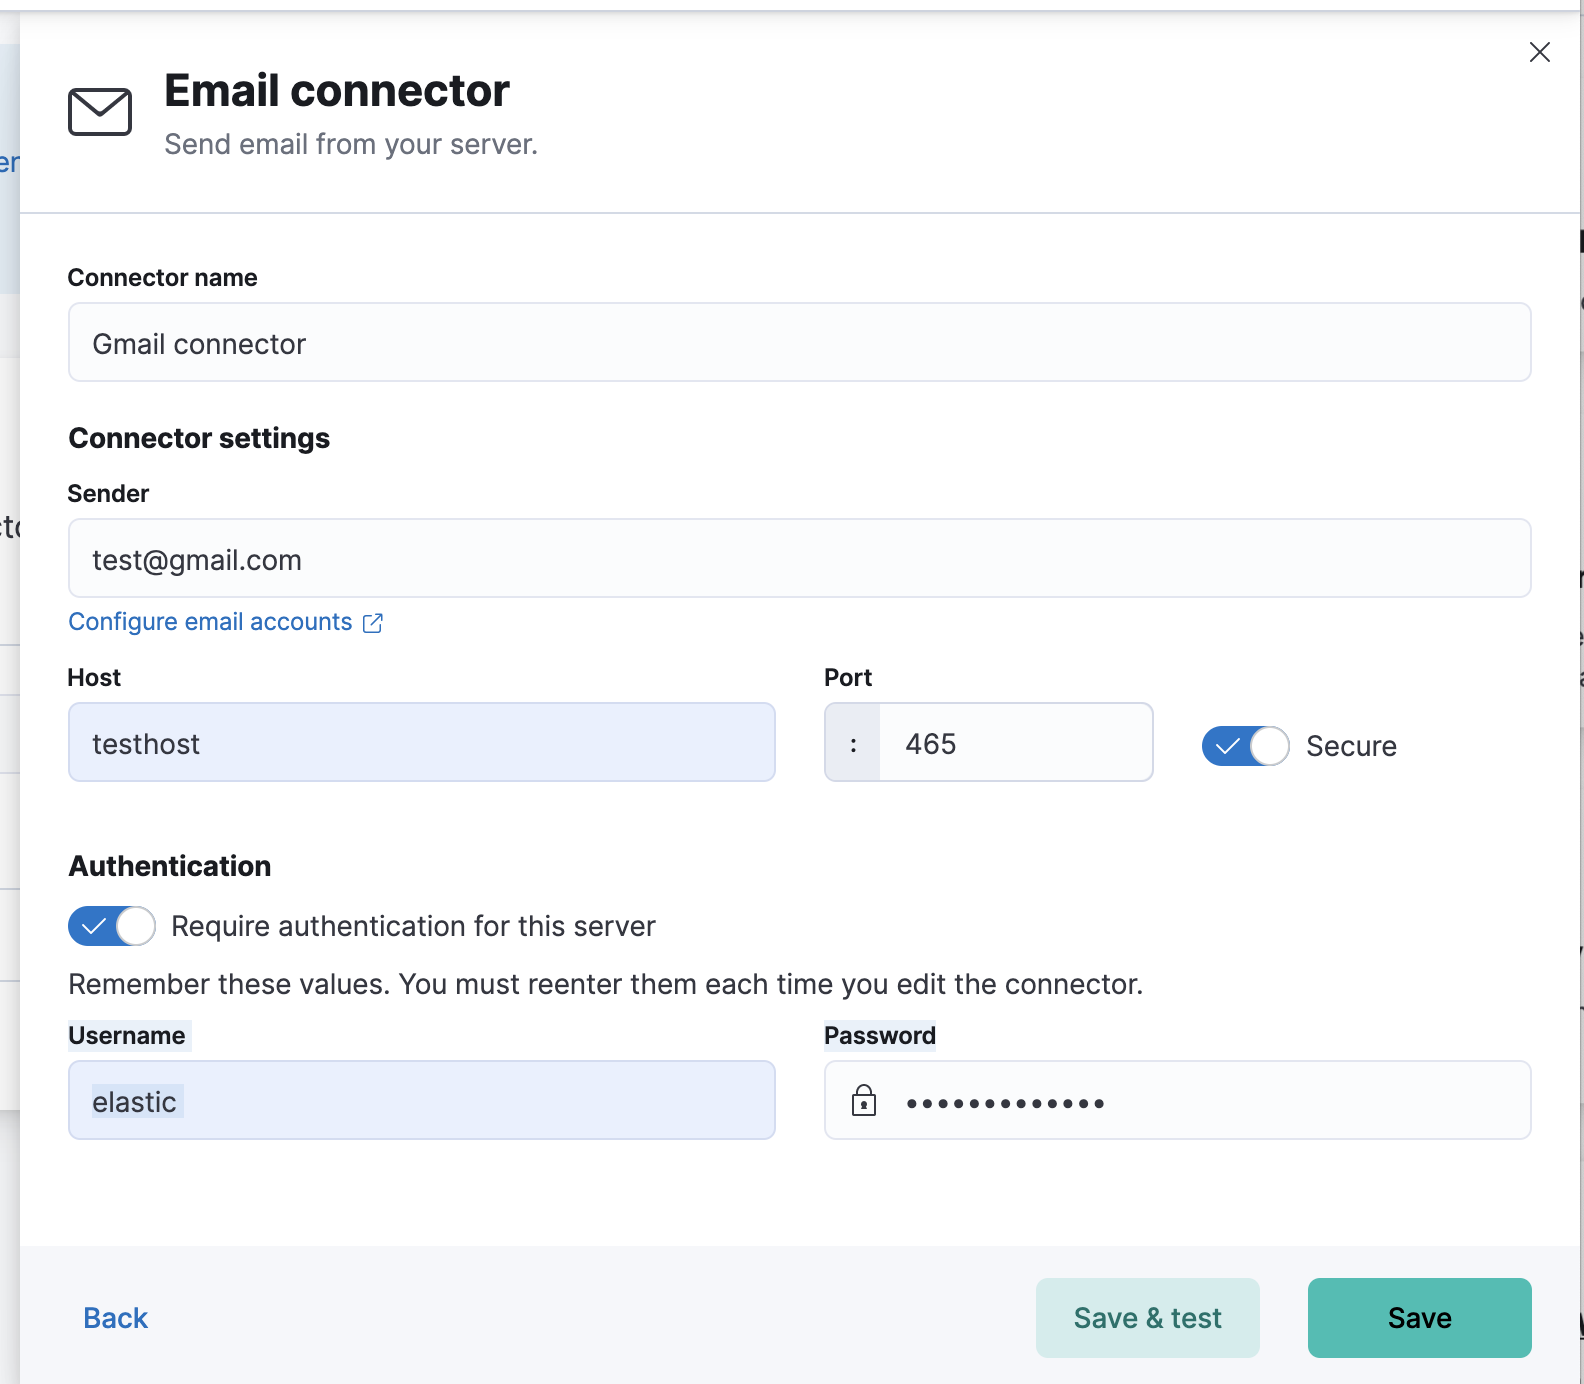
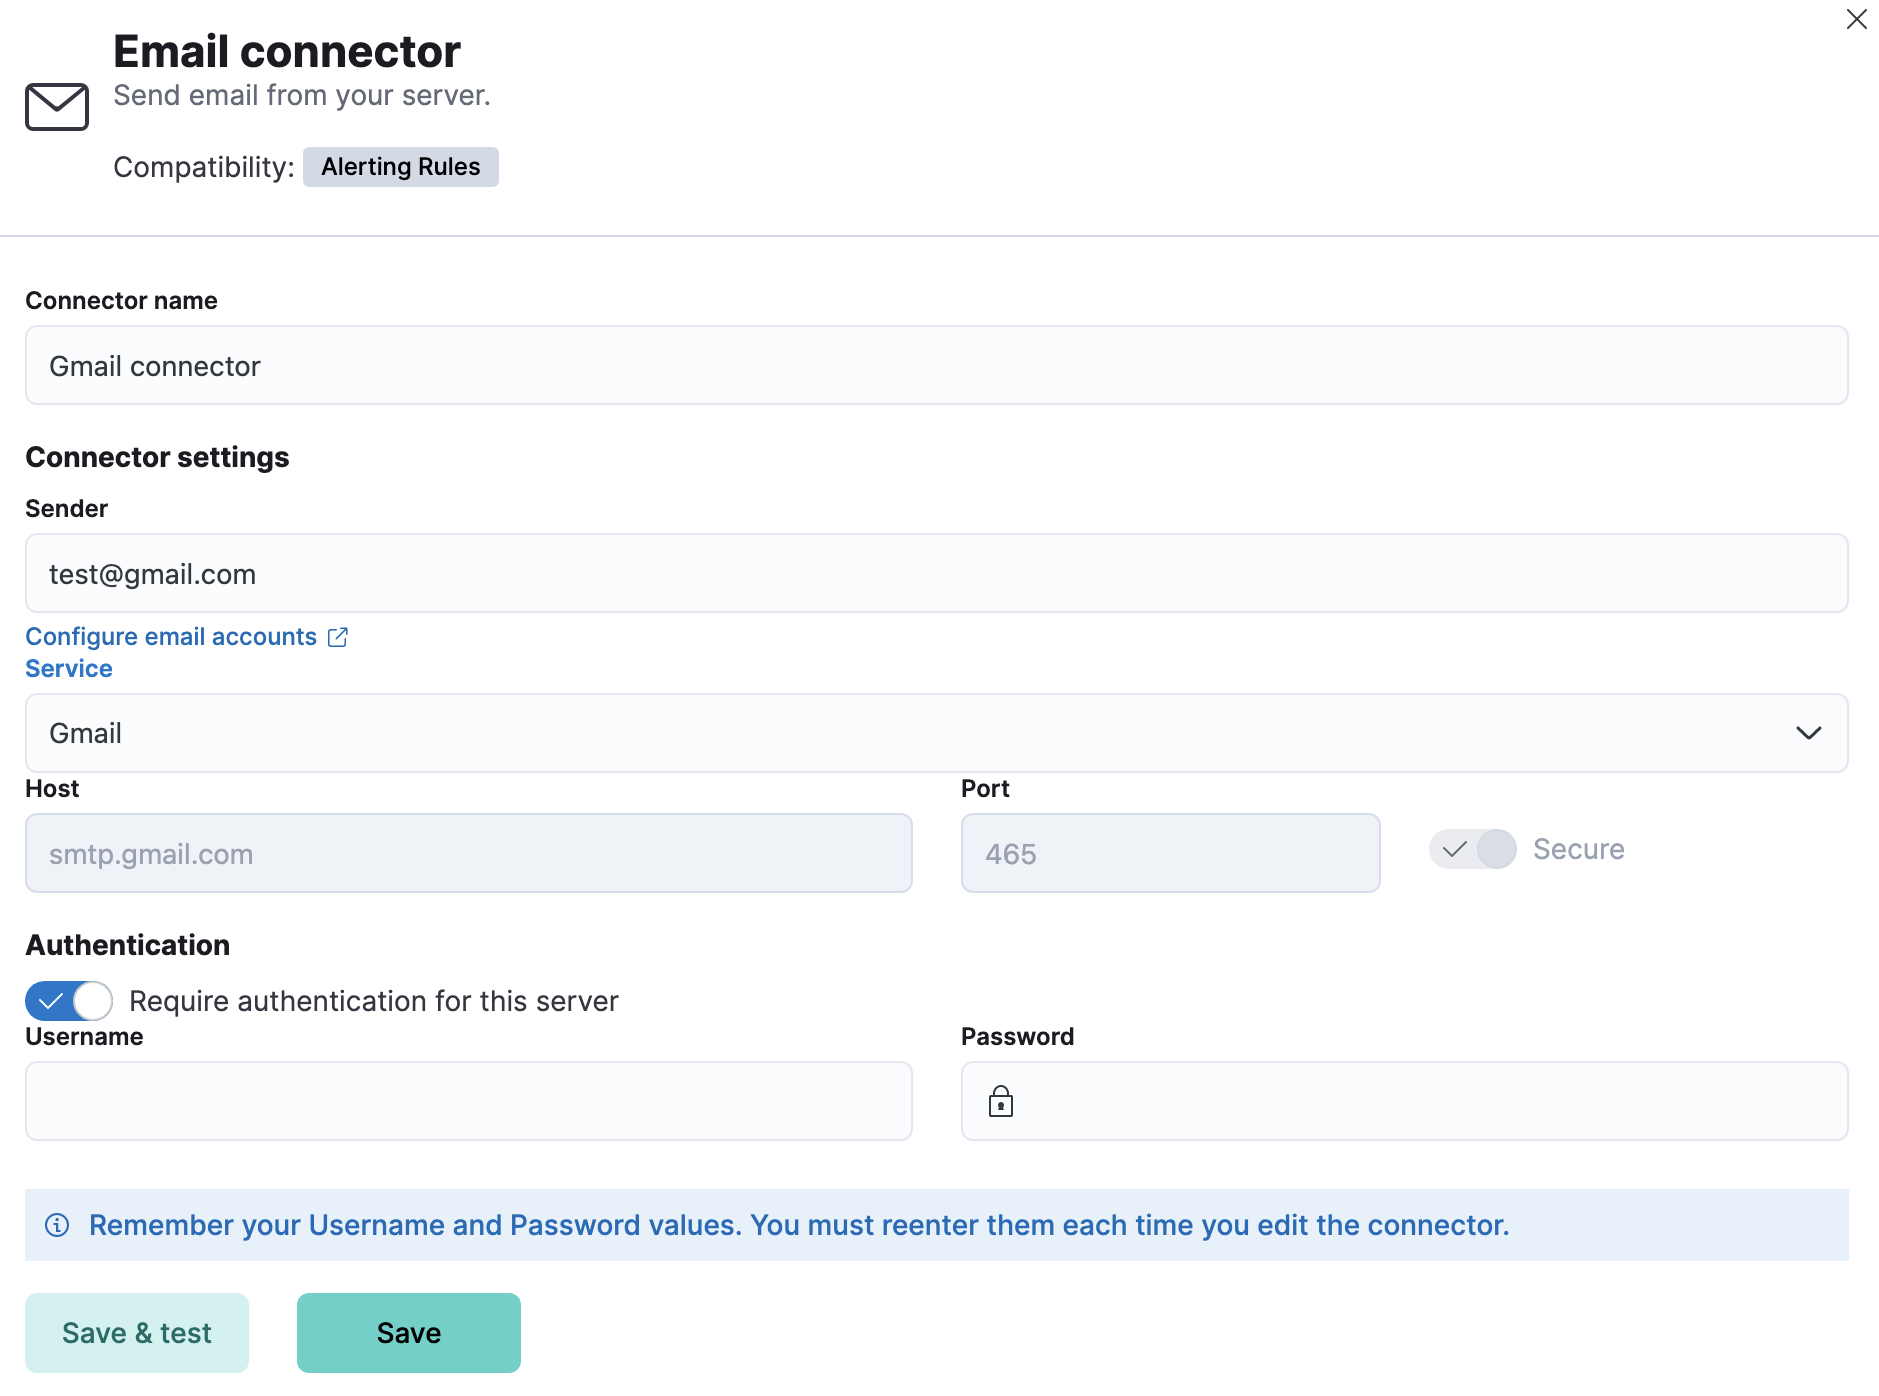
[DOCS] Automate email connector screenshot, edit secrets field label (#155464)

diff --git a/x-pack/test/screenshot_creation/apps/response_ops_docs/stack_connectors/connector_types.ts b/x-pack/test/screenshot_creation/apps/response_ops_docs/stack_connectors/connector_types.ts
@@ -57,5 +57,17 @@ export default function ({ getService, getPageObjects }: FtrProviderContext) {
       const flyOutCancelButton = await testSubjects.find('euiFlyoutCloseButton');
       await flyOutCancelButton.click();
     });
+
+    it('email connector screenshots', async () => {
+      await pageObjects.common.navigateToApp('connectors');
+      await pageObjects.header.waitUntilLoadingHasFinished();
+      await actions.common.openNewConnectorForm('email');
+      await testSubjects.setValue('nameInput', 'Gmail connector');
+      await testSubjects.setValue('emailFromInput', 'test@gmail.com');
+      await testSubjects.setValue('emailServiceSelectInput', 'gmail');
+      await commonScreenshots.takeScreenshot('email-connector', screenshotDirectories);
+      const flyOutCancelButton = await testSubjects.find('euiFlyoutCloseButton');
+      await flyOutCancelButton.click();
+    });
   });
 }

diff --git a/x-pack/plugins/triggers_actions_ui/public/application/sections/action_connector_form/encrypted_fields_callout.test.tsx b/x-pack/plugins/triggers_actions_ui/public/application/sections/action_connector_form/encrypted_fields_callout.test.tsx
@@ -35,14 +35,14 @@ const renderWithSecretFields = ({
 
 describe('EncryptedFieldsCallout', () => {
   const isCreateTests: Array<[number, string]> = [
-    [1, 'Remember value label0. You must reenter it each time you edit the connector.'],
+    [1, 'Remember your label0 value. You must reenter it each time you edit the connector.'],
     [
       2,
-      'Remember values label0 and label1. You must reenter them each time you edit the connector.',
+      'Remember your label0 and label1 values. You must reenter them each time you edit the connector.',
     ],
     [
       3,
-      'Remember values label0, label1, and label2. You must reenter them each time you edit the connector.',
+      'Remember your label0, label1, and label2 values. You must reenter them each time you edit the connector.',
     ],
   ];
 

diff --git a/x-pack/plugins/triggers_actions_ui/public/application/sections/action_connector_form/encrypted_fields_callout.tsx b/x-pack/plugins/triggers_actions_ui/public/application/sections/action_connector_form/encrypted_fields_callout.tsx
@@ -104,7 +104,7 @@ const EncryptedFieldsCalloutComponent: React.FC<EncryptedFieldsCalloutProps> = (
           {
             values: { secretFieldsLabel, encryptedFieldsLength: totalSecretFields },
             defaultMessage:
-              'Remember value{encryptedFieldsLength, plural, one {} other {s}} {secretFieldsLabel}. You must reenter {encryptedFieldsLength, plural, one {it} other {them}} each time you edit the connector.',
+              'Remember your {secretFieldsLabel} {encryptedFieldsLength, plural, one {value} other {values}}. You must reenter {encryptedFieldsLength, plural, one {it} other {them}} each time you edit the connector.',
           }
         )}
         dataTestSubj="create-connector-secrets-callout"
